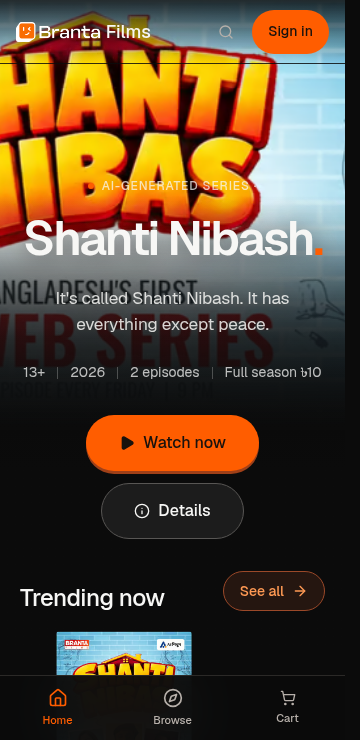
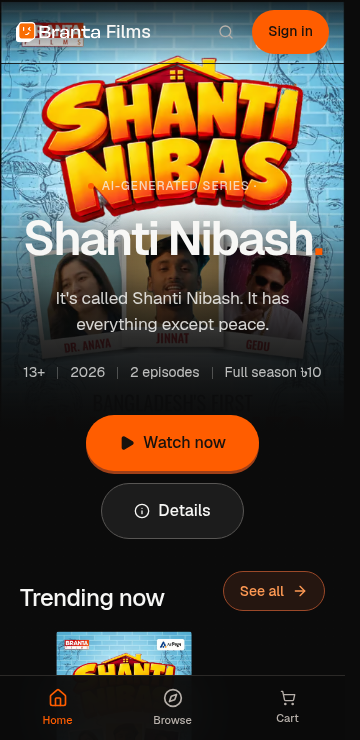
Changes

diff --git a/src/components/catalog/HeroCarousel.tsx b/src/components/catalog/HeroCarousel.tsx
@@ -49,7 +49,7 @@ export function HeroCarousel({ slides }: { slides: CatalogSeries[] }) {
           <div
             key={s.id}
             aria-hidden="true"
-            className={cn("absolute inset-x-0 top-0 -z-20 aspect-[4/5] max-h-[72%] overflow-hidden [mask-image:linear-gradient(to_bottom,black_55%,transparent)] md:inset-0 md:aspect-auto md:max-h-none md:[mask-image:none] transition-opacity duration-[1200ms] ease-out", active ? "opacity-100" : "opacity-0")}
+            className={cn("absolute inset-x-0 top-0 -z-20 overflow-hidden [mask-image:linear-gradient(to_bottom,black_55%,transparent)] md:inset-0 md:aspect-auto md:max-h-none md:[mask-image:none] transition-opacity duration-[1200ms] ease-out", active ? "opacity-100" : "opacity-0", s.poster_url ? "aspect-[4/5] max-h-[72%]" : "top-16 aspect-video")}
           >
             {s.poster_url ? (
               <ArtworkImage
